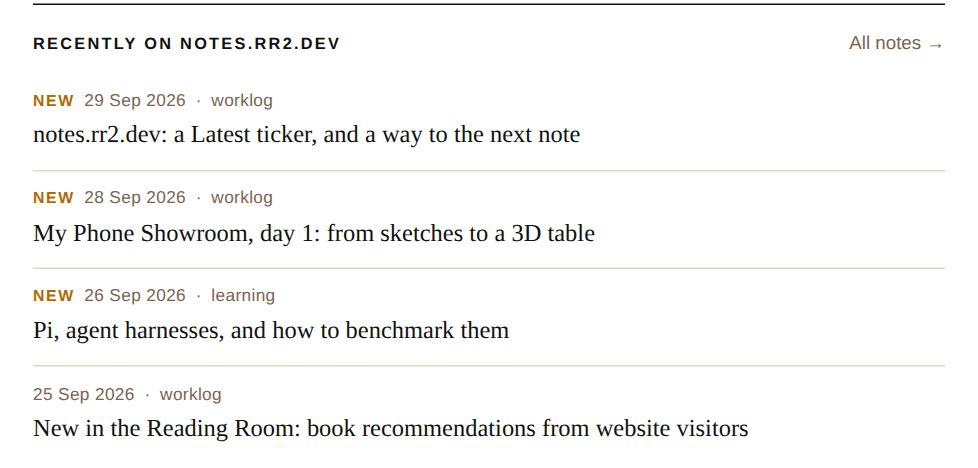
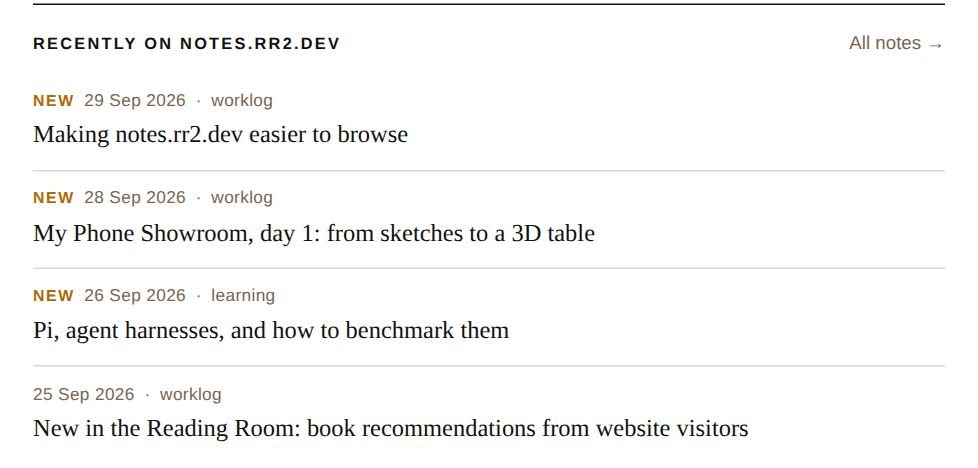
docs(worklog): retitle notes-latest-ticker-and-recent-notes
New title: "Making notes.rr2.dev easier to browse". The slug stays so
existing links keep working. Listings, homepage, recent-notes blocks
and the footer screenshot regenerated.

Claude-Session: https://claude.ai/code/session_018cAhCV4hZQVBfEzJzwEfPh

Changed region(s): [[0.0307, 0.2692, 0.6135, 0.3291]]

diff --git a/index.html b/index.html
@@ -87,13 +87,13 @@
   <span class="ticker-label">Latest</span>
   <div class="ticker-window">
     <div class="ticker-track">
-      <a href="/worklog/notes-latest-ticker-and-recent-notes/" data-fresh="2026-09-29"><span class="tk-new">New</span><span class="tk-date">29 Sep</span><span class="tk-title">notes.rr2.dev: a Latest ticker, and a way to the next note</span></a><span class="tk-sep" aria-hidden="true">/</span>
+      <a href="/worklog/notes-latest-ticker-and-recent-notes/" data-fresh="2026-09-29"><span class="tk-new">New</span><span class="tk-date">29 Sep</span><span class="tk-title">Making notes.rr2.dev easier to browse</span></a><span class="tk-sep" aria-hidden="true">/</span>
       <a href="/worklog/phone-showroom-day-1/" data-fresh="2026-09-28"><span class="tk-new">New</span><span class="tk-date">28 Sep</span><span class="tk-title">My Phone Showroom, day 1: from sketches to a 3D table</span></a><span class="tk-sep" aria-hidden="true">/</span>
       <a href="/learning/pi-and-agent-harnesses/" data-fresh="2026-09-26"><span class="tk-new">New</span><span class="tk-date">26 Sep</span><span class="tk-title">Pi, agent harnesses, and how to benchmark them</span></a><span class="tk-sep" aria-hidden="true">/</span>
       <a href="/worklog/reading-room-float-the-books/" data-fresh="2026-09-26"><span class="tk-new">New</span><span class="tk-date">26 Sep</span><span class="tk-title">The Reading Room: float the books to see every cover</span></a><span class="tk-sep" aria-hidden="true">/</span>
       <a href="/worklog/reading-room-book-recommendations-by-visitors/" data-fresh="2026-09-25"><span class="tk-new">New</span><span class="tk-date">25 Sep</span><span class="tk-title">New in the Reading Room: book recommendations from website visitors</span></a><span class="tk-sep" aria-hidden="true">/</span>
       <!-- repeated for a seamless loop -->
-      <a href="/worklog/notes-latest-ticker-and-recent-notes/" data-fresh="2026-09-29" aria-hidden="true" tabindex="-1"><span class="tk-new">New</span><span class="tk-date">29 Sep</span><span class="tk-title">notes.rr2.dev: a Latest ticker, and a way to the next note</span></a><span class="tk-sep" aria-hidden="true">/</span>
+      <a href="/worklog/notes-latest-ticker-and-recent-notes/" data-fresh="2026-09-29" aria-hidden="true" tabindex="-1"><span class="tk-new">New</span><span class="tk-date">29 Sep</span><span class="tk-title">Making notes.rr2.dev easier to browse</span></a><span class="tk-sep" aria-hidden="true">/</span>
       <a href="/worklog/phone-showroom-day-1/" data-fresh="2026-09-28" aria-hidden="true" tabindex="-1"><span class="tk-new">New</span><span class="tk-date">28 Sep</span><span class="tk-title">My Phone Showroom, day 1: from sketches to a 3D table</span></a><span class="tk-sep" aria-hidden="true">/</span>
       <a href="/learning/pi-and-agent-harnesses/" data-fresh="2026-09-26" aria-hidden="true" tabindex="-1"><span class="tk-new">New</span><span class="tk-date">26 Sep</span><span class="tk-title">Pi, agent harnesses, and how to benchmark them</span></a><span class="tk-sep" aria-hidden="true">/</span>
       <a href="/worklog/reading-room-float-the-books/" data-fresh="2026-09-26" aria-hidden="true" tabindex="-1"><span class="tk-new">New</span><span class="tk-date">26 Sep</span><span class="tk-title">The Reading Room: float the books to see every cover</span></a><span class="tk-sep" aria-hidden="true">/</span>
@@ -133,7 +133,7 @@
   <li><details>
     <summary><a href="/worklog/">/worklog/</a> — log (<span data-count="worklog">6</span>)</summary>
     <ul>
-      <li><time class="date" datetime="2026-09-29">29 Sep 2026</time><a href="/worklog/notes-latest-ticker-and-recent-notes/">notes.rr2.dev: a Latest ticker, and a way to the next note</a></li>
+      <li><time class="date" datetime="2026-09-29">29 Sep 2026</time><a href="/worklog/notes-latest-ticker-and-recent-notes/">Making notes.rr2.dev easier to browse</a></li>
       <li><time class="date" datetime="2026-09-28">28 Sep 2026</time><a href="/worklog/phone-showroom-day-1/">My Phone Showroom, day 1: from sketches to a 3D table</a></li>
       <li><time class="date" datetime="2026-09-26">26 Sep 2026</time><a href="/worklog/reading-room-float-the-books/">The Reading Room: float the books to see every cover</a></li>
       <li><time class="date" datetime="2026-09-25">25 Sep 2026</time><a href="/worklog/reading-room-book-recommendations-by-visitors/">New in the Reading Room: book recommendations from website visitors</a></li>

diff --git a/learning/jev-typesafe-system-one-model/index.html b/learning/jev-typesafe-system-one-model/index.html
@@ -509,7 +509,7 @@ No. It can only return one of your options — so invented categories and type e
 <aside class="nr-more" aria-label="Recently on notes.rr2.dev">
   <div class="nr-head"><p class="nr-label">Recently on notes.rr2.dev</p><a class="nr-all" href="/">All notes →</a></div>
   <ol>
-    <li><a href="/worklog/notes-latest-ticker-and-recent-notes/" data-fresh="2026-09-29"><span class="nr-meta"><span class="nr-new">New</span>29 Sep 2026<span class="nr-sec">worklog</span></span><span class="nr-t">notes.rr2.dev: a Latest ticker, and a way to the next note</span></a></li>
+    <li><a href="/worklog/notes-latest-ticker-and-recent-notes/" data-fresh="2026-09-29"><span class="nr-meta"><span class="nr-new">New</span>29 Sep 2026<span class="nr-sec">worklog</span></span><span class="nr-t">Making notes.rr2.dev easier to browse</span></a></li>
     <li><a href="/worklog/phone-showroom-day-1/" data-fresh="2026-09-28"><span class="nr-meta"><span class="nr-new">New</span>28 Sep 2026<span class="nr-sec">worklog</span></span><span class="nr-t">My Phone Showroom, day 1: from sketches to a 3D table</span></a></li>
     <li><a href="/learning/pi-and-agent-harnesses/" data-fresh="2026-09-26"><span class="nr-meta"><span class="nr-new">New</span>26 Sep 2026<span class="nr-sec">learning</span></span><span class="nr-t">Pi, agent harnesses, and how to benchmark them</span></a></li>
     <li><a href="/worklog/reading-room-float-the-books/" data-fresh="2026-09-26"><span class="nr-meta"><span class="nr-new">New</span>26 Sep 2026<span class="nr-sec">worklog</span></span><span class="nr-t">The Reading Room: float the books to see every cover</span></a></li>

diff --git a/learning/pi-and-agent-harnesses/index.html b/learning/pi-and-agent-harnesses/index.html
@@ -448,7 +448,7 @@ Hold one of them fixed:</p>
 <aside class="nr-more" aria-label="Recently on notes.rr2.dev">
   <div class="nr-head"><p class="nr-label">Recently on notes.rr2.dev</p><a class="nr-all" href="/">All notes →</a></div>
   <ol>
-    <li><a href="/worklog/notes-latest-ticker-and-recent-notes/" data-fresh="2026-09-29"><span class="nr-meta"><span class="nr-new">New</span>29 Sep 2026<span class="nr-sec">worklog</span></span><span class="nr-t">notes.rr2.dev: a Latest ticker, and a way to the next note</span></a></li>
+    <li><a href="/worklog/notes-latest-ticker-and-recent-notes/" data-fresh="2026-09-29"><span class="nr-meta"><span class="nr-new">New</span>29 Sep 2026<span class="nr-sec">worklog</span></span><span class="nr-t">Making notes.rr2.dev easier to browse</span></a></li>
     <li><a href="/worklog/phone-showroom-day-1/" data-fresh="2026-09-28"><span class="nr-meta"><span class="nr-new">New</span>28 Sep 2026<span class="nr-sec">worklog</span></span><span class="nr-t">My Phone Showroom, day 1: from sketches to a 3D table</span></a></li>
     <li><a href="/worklog/reading-room-float-the-books/" data-fresh="2026-09-26"><span class="nr-meta"><span class="nr-new">New</span>26 Sep 2026<span class="nr-sec">worklog</span></span><span class="nr-t">The Reading Room: float the books to see every cover</span></a></li>
     <li><a href="/worklog/reading-room-book-recommendations-by-visitors/" data-fresh="2026-09-25"><span class="nr-meta"><span class="nr-new">New</span>25 Sep 2026<span class="nr-sec">worklog</span></span><span class="nr-t">New in the Reading Room: book recommendations from website visitors</span></a></li>

diff --git a/worklog/phone-showroom-day-1/index.html b/worklog/phone-showroom-day-1/index.html
@@ -209,7 +209,7 @@
 <aside class="nr-more" aria-label="Recently on notes.rr2.dev">
   <div class="nr-head"><p class="nr-label">Recently on notes.rr2.dev</p><a class="nr-all" href="/">All notes →</a></div>
   <ol>
-    <li><a href="/worklog/notes-latest-ticker-and-recent-notes/" data-fresh="2026-09-29"><span class="nr-meta"><span class="nr-new">New</span>29 Sep 2026<span class="nr-sec">worklog</span></span><span class="nr-t">notes.rr2.dev: a Latest ticker, and a way to the next note</span></a></li>
+    <li><a href="/worklog/notes-latest-ticker-and-recent-notes/" data-fresh="2026-09-29"><span class="nr-meta"><span class="nr-new">New</span>29 Sep 2026<span class="nr-sec">worklog</span></span><span class="nr-t">Making notes.rr2.dev easier to browse</span></a></li>
     <li><a href="/learning/pi-and-agent-harnesses/" data-fresh="2026-09-26"><span class="nr-meta"><span class="nr-new">New</span>26 Sep 2026<span class="nr-sec">learning</span></span><span class="nr-t">Pi, agent harnesses, and how to benchmark them</span></a></li>
     <li><a href="/worklog/reading-room-float-the-books/" data-fresh="2026-09-26"><span class="nr-meta"><span class="nr-new">New</span>26 Sep 2026<span class="nr-sec">worklog</span></span><span class="nr-t">The Reading Room: float the books to see every cover</span></a></li>
     <li><a href="/worklog/reading-room-book-recommendations-by-visitors/" data-fresh="2026-09-25"><span class="nr-meta"><span class="nr-new">New</span>25 Sep 2026<span class="nr-sec">worklog</span></span><span class="nr-t">New in the Reading Room: book recommendations from website visitors</span></a></li>

diff --git a/worklog/reading-room-float-the-books/index.html b/worklog/reading-room-float-the-books/index.html
@@ -93,7 +93,7 @@
 <aside class="nr-more" aria-label="Recently on notes.rr2.dev">
   <div class="nr-head"><p class="nr-label">Recently on notes.rr2.dev</p><a class="nr-all" href="/">All notes →</a></div>
   <ol>
-    <li><a href="/worklog/notes-latest-ticker-and-recent-notes/" data-fresh="2026-09-29"><span class="nr-meta"><span class="nr-new">New</span>29 Sep 2026<span class="nr-sec">worklog</span></span><span class="nr-t">notes.rr2.dev: a Latest ticker, and a way to the next note</span></a></li>
+    <li><a href="/worklog/notes-latest-ticker-and-recent-notes/" data-fresh="2026-09-29"><span class="nr-meta"><span class="nr-new">New</span>29 Sep 2026<span class="nr-sec">worklog</span></span><span class="nr-t">Making notes.rr2.dev easier to browse</span></a></li>
     <li><a href="/worklog/phone-showroom-day-1/" data-fresh="2026-09-28"><span class="nr-meta"><span class="nr-new">New</span>28 Sep 2026<span class="nr-sec">worklog</span></span><span class="nr-t">My Phone Showroom, day 1: from sketches to a 3D table</span></a></li>
     <li><a href="/learning/pi-and-agent-harnesses/" data-fresh="2026-09-26"><span class="nr-meta"><span class="nr-new">New</span>26 Sep 2026<span class="nr-sec">learning</span></span><span class="nr-t">Pi, agent harnesses, and how to benchmark them</span></a></li>
     <li><a href="/worklog/reading-room-book-recommendations-by-visitors/" data-fresh="2026-09-25"><span class="nr-meta"><span class="nr-new">New</span>25 Sep 2026<span class="nr-sec">worklog</span></span><span class="nr-t">New in the Reading Room: book recommendations from website visitors</span></a></li>

diff --git a/worklog/reading-room-book-recommendations-by-visitors/index.html b/worklog/reading-room-book-recommendations-by-visitors/index.html
@@ -105,7 +105,7 @@
 <aside class="nr-more" aria-label="Recently on notes.rr2.dev">
   <div class="nr-head"><p class="nr-label">Recently on notes.rr2.dev</p><a class="nr-all" href="/">All notes →</a></div>
   <ol>
-    <li><a href="/worklog/notes-latest-ticker-and-recent-notes/" data-fresh="2026-09-29"><span class="nr-meta"><span class="nr-new">New</span>29 Sep 2026<span class="nr-sec">worklog</span></span><span class="nr-t">notes.rr2.dev: a Latest ticker, and a way to the next note</span></a></li>
+    <li><a href="/worklog/notes-latest-ticker-and-recent-notes/" data-fresh="2026-09-29"><span class="nr-meta"><span class="nr-new">New</span>29 Sep 2026<span class="nr-sec">worklog</span></span><span class="nr-t">Making notes.rr2.dev easier to browse</span></a></li>
     <li><a href="/worklog/phone-showroom-day-1/" data-fresh="2026-09-28"><span class="nr-meta"><span class="nr-new">New</span>28 Sep 2026<span class="nr-sec">worklog</span></span><span class="nr-t">My Phone Showroom, day 1: from sketches to a 3D table</span></a></li>
     <li><a href="/learning/pi-and-agent-harnesses/" data-fresh="2026-09-26"><span class="nr-meta"><span class="nr-new">New</span>26 Sep 2026<span class="nr-sec">learning</span></span><span class="nr-t">Pi, agent harnesses, and how to benchmark them</span></a></li>
     <li><a href="/worklog/reading-room-float-the-books/" data-fresh="2026-09-26"><span class="nr-meta"><span class="nr-new">New</span>26 Sep 2026<span class="nr-sec">worklog</span></span><span class="nr-t">The Reading Room: float the books to see every cover</span></a></li>

diff --git a/worklog/godaddy-to-cloudflare-migration/index.html b/worklog/godaddy-to-cloudflare-migration/index.html
@@ -83,7 +83,7 @@
 <aside class="nr-more" aria-label="Recently on notes.rr2.dev">
   <div class="nr-head"><p class="nr-label">Recently on notes.rr2.dev</p><a class="nr-all" href="/">All notes →</a></div>
   <ol>
-    <li><a href="/worklog/notes-latest-ticker-and-recent-notes/" data-fresh="2026-09-29"><span class="nr-meta"><span class="nr-new">New</span>29 Sep 2026<span class="nr-sec">worklog</span></span><span class="nr-t">notes.rr2.dev: a Latest ticker, and a way to the next note</span></a></li>
+    <li><a href="/worklog/notes-latest-ticker-and-recent-notes/" data-fresh="2026-09-29"><span class="nr-meta"><span class="nr-new">New</span>29 Sep 2026<span class="nr-sec">worklog</span></span><span class="nr-t">Making notes.rr2.dev easier to browse</span></a></li>
     <li><a href="/worklog/phone-showroom-day-1/" data-fresh="2026-09-28"><span class="nr-meta"><span class="nr-new">New</span>28 Sep 2026<span class="nr-sec">worklog</span></span><span class="nr-t">My Phone Showroom, day 1: from sketches to a 3D table</span></a></li>
     <li><a href="/learning/pi-and-agent-harnesses/" data-fresh="2026-09-26"><span class="nr-meta"><span class="nr-new">New</span>26 Sep 2026<span class="nr-sec">learning</span></span><span class="nr-t">Pi, agent harnesses, and how to benchmark them</span></a></li>
     <li><a href="/worklog/reading-room-float-the-books/" data-fresh="2026-09-26"><span class="nr-meta"><span class="nr-new">New</span>26 Sep 2026<span class="nr-sec">worklog</span></span><span class="nr-t">The Reading Room: float the books to see every cover</span></a></li>

diff --git a/worklog/setting-up-notes-rr2-dev/index.html b/worklog/setting-up-notes-rr2-dev/index.html
@@ -86,7 +86,7 @@
 <aside class="nr-more" aria-label="Recently on notes.rr2.dev">
   <div class="nr-head"><p class="nr-label">Recently on notes.rr2.dev</p><a class="nr-all" href="/">All notes →</a></div>
   <ol>
-    <li><a href="/worklog/notes-latest-ticker-and-recent-notes/" data-fresh="2026-09-29"><span class="nr-meta"><span class="nr-new">New</span>29 Sep 2026<span class="nr-sec">worklog</span></span><span class="nr-t">notes.rr2.dev: a Latest ticker, and a way to the next note</span></a></li>
+    <li><a href="/worklog/notes-latest-ticker-and-recent-notes/" data-fresh="2026-09-29"><span class="nr-meta"><span class="nr-new">New</span>29 Sep 2026<span class="nr-sec">worklog</span></span><span class="nr-t">Making notes.rr2.dev easier to browse</span></a></li>
     <li><a href="/worklog/phone-showroom-day-1/" data-fresh="2026-09-28"><span class="nr-meta"><span class="nr-new">New</span>28 Sep 2026<span class="nr-sec">worklog</span></span><span class="nr-t">My Phone Showroom, day 1: from sketches to a 3D table</span></a></li>
     <li><a href="/learning/pi-and-agent-harnesses/" data-fresh="2026-09-26"><span class="nr-meta"><span class="nr-new">New</span>26 Sep 2026<span class="nr-sec">learning</span></span><span class="nr-t">Pi, agent harnesses, and how to benchmark them</span></a></li>
     <li><a href="/worklog/reading-room-float-the-books/" data-fresh="2026-09-26"><span class="nr-meta"><span class="nr-new">New</span>26 Sep 2026<span class="nr-sec">worklog</span></span><span class="nr-t">The Reading Room: float the books to see every cover</span></a></li>

diff --git a/worklog/index.html b/worklog/index.html
@@ -32,7 +32,7 @@
 
 <ul>
   <!-- one <li> per entry: <li><a href="/worklog/slug/">Title</a> — Mmm D, YYYY</li> -->
-  <li><a href="/worklog/notes-latest-ticker-and-recent-notes/">notes.rr2.dev: a Latest ticker, and a way to the next note</a> — Sep 29, 2026</li>
+  <li><a href="/worklog/notes-latest-ticker-and-recent-notes/">Making notes.rr2.dev easier to browse</a> — Sep 29, 2026</li>
   <li><a href="/worklog/phone-showroom-day-1/">My Phone Showroom, day 1: from sketches to a 3D table</a> — Sep 28, 2026</li>
   <li><a href="/worklog/reading-room-float-the-books/">The Reading Room: float the books to see every cover</a> — Sep 26, 2026</li>
   <li><a href="/worklog/reading-room-book-recommendations-by-visitors/">New in the Reading Room: book recommendations from website visitors</a> — Sep 25, 2026</li>

diff --git a/worklog/notes-latest-ticker-and-recent-notes/index.html b/worklog/notes-latest-ticker-and-recent-notes/index.html
@@ -10,7 +10,7 @@
 </script>
 <meta charset="utf-8">
 <meta name="viewport" content="width=device-width, initial-scale=1">
-<title>notes.rr2.dev: a Latest ticker, and a way to the next note — notes.rr2.dev</title>
+<title>Making notes.rr2.dev easier to browse — notes.rr2.dev</title>
 <meta name="description" content="The homepage gets a Latest ticker and sections that open in place, and every note now ends with the newest notes on the site.">
 <meta name="date" content="2026-09-29">
 <style>
@@ -32,7 +32,7 @@
 </head>
 <body>
 
-<h1>notes.rr2.dev: a Latest ticker, and a way to the next note</h1>
+<h1>Making notes.rr2.dev easier to browse</h1>
 <p class="meta">Sep 29, 2026 — <a href="/worklog/">Worklog</a> • <a href="/">Home</a>.</p>
 
 <hr>
